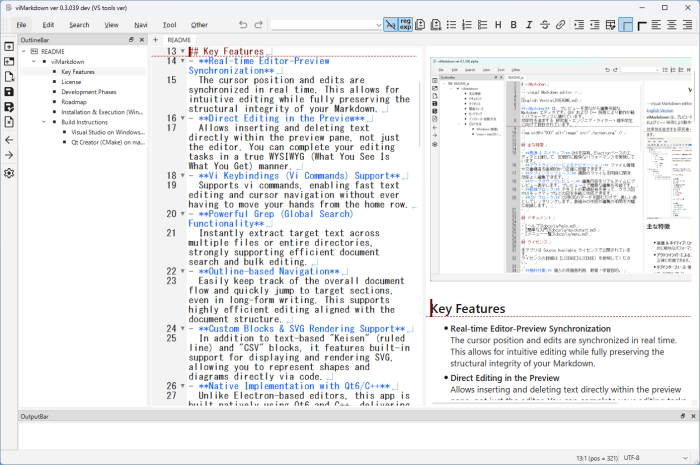
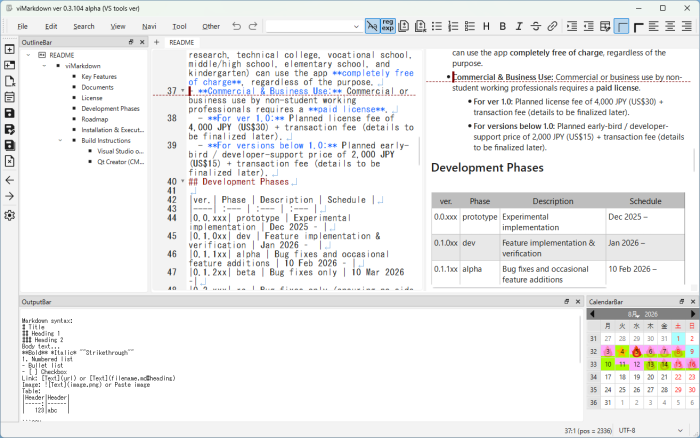
0868 ◎ C 08/14 08/16 03104│問題│README.md：スクリーンショットをカレンダー表示中のものに差し替えた方がよい

diff --git a/viMarkdown/src/MarkdownPreview.cpp b/viMarkdown/src/MarkdownPreview.cpp
@@ -657,7 +657,7 @@ int indexOfComment(QStringView buf, int start) {
 }
 //void updateCharFlags(QTextBlock srcBlock);
 void MarkdownPreview::setMarkdown(QTextDocument *doc) {		//	doc: markdown ソースドキュメント
-	//##qDebug() << "MarkdownPreview::setMarkdown(): cursor.position = " << textCursor().position();
+	qDebug() << "MarkdownPreview::setMarkdown(): cursor.position = " << textCursor().position();
 	m_headingList.clear();
 	m_docWidget->m_srcHeadingBlocks.clear();
 	m_docWidget->m_prvHeadingBlocks.clear();

diff --git a/md_example/diary/2026/08/20260816.md b/md_example/diary/2026/08/20260816.md
@@ -4,7 +4,7 @@
 ### viMarkdown
 - [ ] is_match()：引数部分を返す？
 - [ ] cw コマンドテスト
-- [ ] dd コマンドテスト
+- [x] dd コマンドテスト
 ### SPRList
 - [ ] Open時：Open & Close日付有り、Close＆Close日付無しの場合エラー表示
 - [ ] Close → Open するとセルが空白になる（Release mode のみ）
